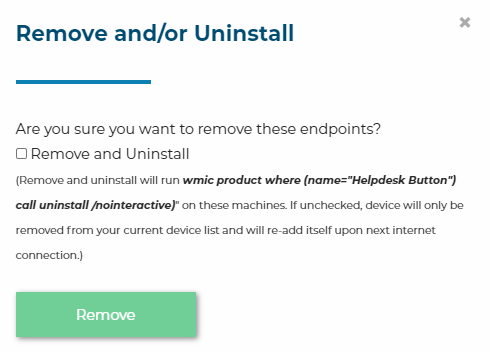
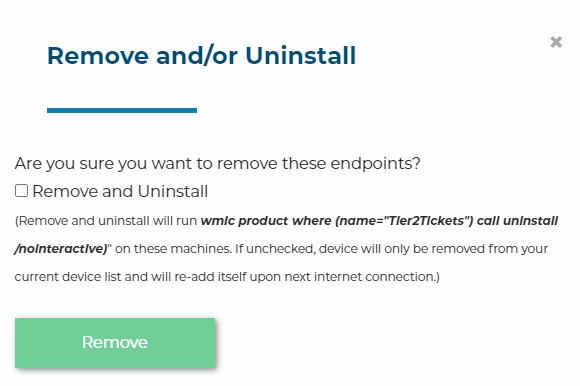
Updated Slack example, fixed path from helpdeskbuttons to tier2tickets

diff --git a/content/automations/tier2assist.rst b/content/automations/tier2assist.rst
@@ -158,8 +158,8 @@ We also allow connecting to external APIs. This is a fun API that suggests activ
 	tier2assist.append({'msg': 'Activity of the day: ' + activity['activity'], 'action': 'https://google.com/search?q=' + activity['activity']})
 
 
-External API:  Example Slack
-"""""""""""""""""""""""""""""""""""""
+-deprecated- External API:  Example Slack
+"""""""""""""""""""""""""""""""""""""""""""""""""""""""""""""""""""""""""
 
 Suppose you would like to get a message to #general in slack whenever you get a new ticket.
 Here is what that rule looks like (Make sure to put in your Slack API Key in the spot provided):
@@ -168,6 +168,24 @@ Here is what that rule looks like (Make sure to put in your Slack API Key in the
 .. code-block:: python
 
 	post_result = json_post('https://slack.com/api/chat.postMessage', {'channel': '#general', 'text': 'New ticket created. Ticket number: ' + ticketNumber}, {'Authorization': 'Bearer YOUR_SLACK_API_KEY_HERE'})
+
+
+SLACK IS DISCONTINUING ITS DIRECT API IN FAVOR OF SLACK APPS
+
+
+External API:  Example Slack (Using Slack APPS)
+""""""""""""""""""""""""""""""""""""""""""""""""""""""""""""""""
+
+This method requires that you have set up an app in slack with an Incoming Webhook, a bot, and give the bot permissions to post in the channel
+
+.. code-block:: python
+
+	try:
+		postURL = 'PUT_WEBHOOK_URL_HERE'
+		post_result = json_post(postURL, {'text': 'New ticket created. Ticket number: ' + ticketNumber})
+	except:
+		pass
+
 
 
 Random

diff --git a/content/general/firewall.rst b/content/general/firewall.rst
@@ -41,7 +41,7 @@ In order for the client software to function, it makes outbound TCP connections 
 
 Anti-Virus and AntiMalware Compatibility
 -----------------------------------------
-It is not always necessary, but we recommend whitelisting the helpdeskbuttons installation folder (C:\\Program Files(x86)\\Helpdesk Button). We regularly submit our code through VirusTotal to make sure we are not getting flagged, but almost all AV/M interactions cause some sort of failure. `Webroot <https://docs.tier2tickets.com/content/general/firewall/#webroot>`_ in particular can cause issues with screenshots.
+It is not always necessary, but we recommend whitelisting the Tier2Tickets installation folder (C:\\Program Files(x86)\\Tier2Tickets). We regularly submit our code through VirusTotal to make sure we are not getting flagged, but almost all AV/M interactions cause some sort of failure. `Webroot <https://docs.tier2tickets.com/content/general/firewall/#webroot>`_ in particular can cause issues with screenshots.
 
 
 AdGuard

diff --git a/content/general/installation.md b/content/general/installation.md
@@ -88,7 +88,7 @@ The next popup confirms the remove and gives the option to run the uninstall com
 
 Since the package is an MSI, you can use WMI to uninstall it. Here is an example command to uninstall it silently: 
 
-`wmic product where (name="Helpdesk Button") call uninstall /nointeractive`
+`wmic product where (name="Tier2Tickets") call uninstall /nointeractive`
 
 NOTE: if you get back "ReturnValue = 1603;" from this command, then the removal failed because you are not in an elevated command prompt.
 
